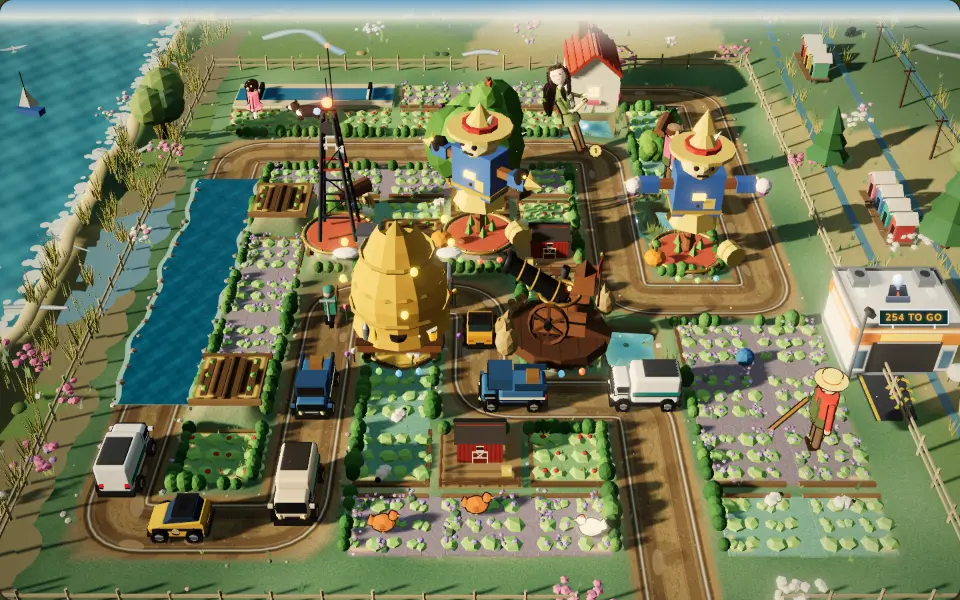
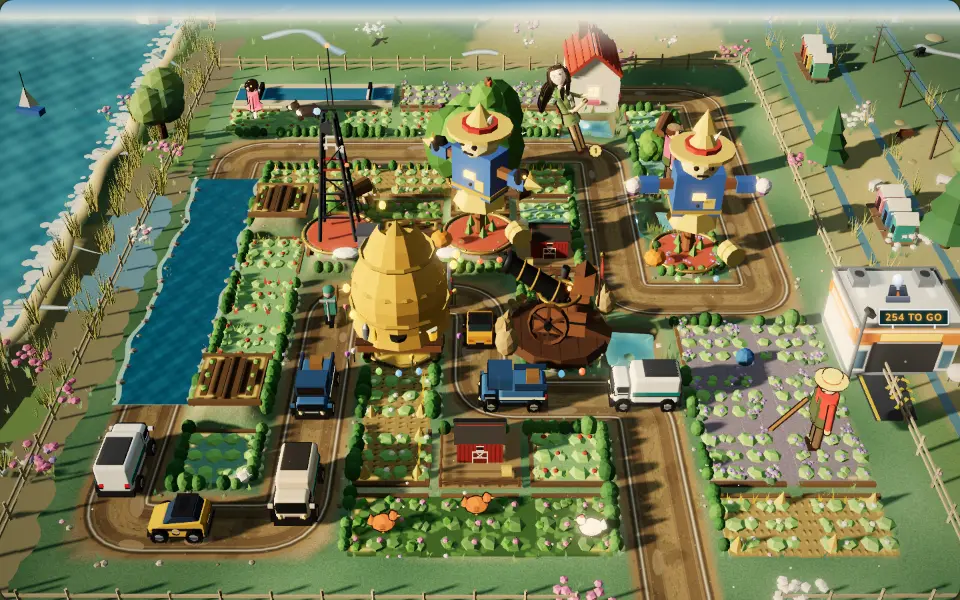
Hedgerow 2D (plan item 621 slice 1): every level's farm sows five crops or more, the act's own three beds plus two margin beds borrowed from a neighbouring country
Claude-Session: https://claude.ai/code/session_01SimvMRr3pxyZPGsavn32QT

diff --git a/games/hedgerow/src/fieldkit.ts b/games/hedgerow/src/fieldkit.ts
@@ -58,6 +58,11 @@ export interface FieldKit {
   name: string;
   /** The three looks the fields take turns with (plotlook.ts keeps neighbours apart). */
   beds: readonly [BedLook, BedLook, BedLook];
+  /**
+   * Plan item 621: two margin beds borrowed from a neighbouring country's kit, so a level's farm reads as 5+ crops,
+   * not three repeating ones. They are sown after the act's own three (plotlook.ts), so the act's beds still lead.
+   */
+  margins: readonly [BedLook, BedLook];
   /** The look that sometimes holds a puddle (none: no puddles). */
   puddle?: BedLook;
   barn: BarnLook;
@@ -68,19 +73,19 @@ export interface FieldKit {
   house: "farm" | "fisher" | "thatch" | "longhouse" | "lodge" | "flint" | "bungalow" | "rectory" | "showhome" | "townhouse";
 }
 
-export const BRINDLE_KIT: FieldKit = { name: "farm", beds: ["earth", "stubble", "clover"], puddle: "earth", barn: "barn", water: "pond", house: "farm", knoll: { top: "rgb(150,176,92)", foot: "rgb(92,120,56)", contour: "rgba(60,80,30,0.45)" } };
+export const BRINDLE_KIT: FieldKit = { name: "farm", beds: ["earth", "stubble", "clover"], margins: ["oats", "turnips"], puddle: "earth", barn: "barn", water: "pond", house: "farm", knoll: { top: "rgb(150,176,92)", foot: "rgb(92,120,56)", contour: "rgba(60,80,30,0.45)" } };
 
 /** Acts by index (0 Brindle .. 9 Kingsmarket) with a kit of their own; the rest keep the farm's. */
 export const FIELD_KITS: Partial<Record<number, FieldKit>> = {
-  1: { name: "hill farm", beds: ["oats", "turnips", "inbye"], barn: "fold", water: "peatpool", house: "longhouse", knoll: { top: "rgb(160,150,120)", foot: "rgb(110,100,84)", contour: "rgba(70,60,46,0.45)", dress: "rocks" } },
-  2: { name: "saltmarsh", beds: ["samphire", "lavender", "saltgrass"], barn: "netshed", water: "saltpan", house: "fisher", knoll: { top: "rgb(222,212,160)", foot: "rgb(132,156,100)", contour: "rgba(110,120,70,0.45)", dress: "marram" } },
-  3: { name: "water meadow", beds: ["meadow", "swathe", "cress"], barn: "millhouse", water: "willowpond", house: "thatch", knoll: { top: "rgb(140,186,96)", foot: "rgb(90,140,64)", contour: "rgba(50,90,40,0.45)", dress: "willow" } },
-  4: { name: "woodland holding", beds: ["garlic", "litter", "bluebell"], barn: "timberbarn", water: "lilypool", house: "lodge", knoll: { top: "rgb(120,150,74)", foot: "rgb(74,100,48)", contour: "rgba(50,70,30,0.45)", dress: "bracken" } },
-  5: { name: "shingle croft", beds: ["seakale", "lazybed", "thrift"], barn: "boathut", water: "rockpool", house: "flint", knoll: { top: "rgb(190,186,174)", foot: "rgb(146,142,132)", contour: "rgba(96,92,84,0.45)", dress: "pebbles" } },
-  6: { name: "agribusiness", beds: ["rape", "beet", "fallow"], barn: "dutchbarn", water: "gravelpit", house: "bungalow", knoll: { top: "rgb(140,124,100)", foot: "rgb(100,88,72)", contour: "rgba(60,50,40,0.45)", dress: "spoil" } },
-  7: { name: "allotments", beds: ["allotment", "sweetpea", "marrow"], barn: "marquee", water: "duckpond", house: "rectory", knoll: { top: "rgb(156,190,100)", foot: "rgb(104,140,64)", contour: "rgba(60,90,36,0.45)", dress: "daisies" } },
-  8: { name: "agri-tech", beds: ["polytunnel", "lettuce", "turf"], barn: "warehouse", water: "lagoon", house: "showhome", knoll: { top: "rgb(120,186,96)", foot: "rgb(84,150,70)", contour: "rgba(40,90,40,0.45)", dress: "sprinkler" } },
-  9: { name: "market garden", beds: ["salad", "rhubarb", "strawberry"], barn: "granary", water: "basin", house: "townhouse", knoll: { top: "rgb(160,170,96)", foot: "rgb(112,124,64)", contour: "rgba(70,80,36,0.45)", dress: "path" } },
+  1: { name: "hill farm", beds: ["oats", "turnips", "inbye"], margins: ["stubble", "meadow"], barn: "fold", water: "peatpool", house: "longhouse", knoll: { top: "rgb(160,150,120)", foot: "rgb(110,100,84)", contour: "rgba(70,60,46,0.45)", dress: "rocks" } },
+  2: { name: "saltmarsh", beds: ["samphire", "lavender", "saltgrass"], margins: ["thrift", "seakale"], barn: "netshed", water: "saltpan", house: "fisher", knoll: { top: "rgb(222,212,160)", foot: "rgb(132,156,100)", contour: "rgba(110,120,70,0.45)", dress: "marram" } },
+  3: { name: "water meadow", beds: ["meadow", "swathe", "cress"], margins: ["clover", "garlic"], barn: "millhouse", water: "willowpond", house: "thatch", knoll: { top: "rgb(140,186,96)", foot: "rgb(90,140,64)", contour: "rgba(50,90,40,0.45)", dress: "willow" } },
+  4: { name: "woodland holding", beds: ["garlic", "litter", "bluebell"], margins: ["inbye", "swathe"], barn: "timberbarn", water: "lilypool", house: "lodge", knoll: { top: "rgb(120,150,74)", foot: "rgb(74,100,48)", contour: "rgba(50,70,30,0.45)", dress: "bracken" } },
+  5: { name: "shingle croft", beds: ["seakale", "lazybed", "thrift"], margins: ["saltgrass", "samphire"], barn: "boathut", water: "rockpool", house: "flint", knoll: { top: "rgb(190,186,174)", foot: "rgb(146,142,132)", contour: "rgba(96,92,84,0.45)", dress: "pebbles" } },
+  6: { name: "agribusiness", beds: ["rape", "beet", "fallow"], margins: ["stubble", "lettuce"], barn: "dutchbarn", water: "gravelpit", house: "bungalow", knoll: { top: "rgb(140,124,100)", foot: "rgb(100,88,72)", contour: "rgba(60,50,40,0.45)", dress: "spoil" } },
+  7: { name: "allotments", beds: ["allotment", "sweetpea", "marrow"], margins: ["salad", "strawberry"], barn: "marquee", water: "duckpond", house: "rectory", knoll: { top: "rgb(156,190,100)", foot: "rgb(104,140,64)", contour: "rgba(60,90,36,0.45)", dress: "daisies" } },
+  8: { name: "agri-tech", beds: ["polytunnel", "lettuce", "turf"], margins: ["beet", "rape"], barn: "warehouse", water: "lagoon", house: "showhome", knoll: { top: "rgb(120,186,96)", foot: "rgb(84,150,70)", contour: "rgba(40,90,40,0.45)", dress: "sprinkler" } },
+  9: { name: "market garden", beds: ["salad", "rhubarb", "strawberry"], margins: ["allotment", "sweetpea"], barn: "granary", water: "basin", house: "townhouse", knoll: { top: "rgb(160,170,96)", foot: "rgb(112,124,64)", contour: "rgba(70,80,36,0.45)", dress: "path" } },
 };
 
 export function actIndex(level: Pick<Level, "id">): number {

diff --git a/tests/hedgerow-fieldkit.test.ts b/tests/hedgerow-fieldkit.test.ts
@@ -2,7 +2,7 @@
 import { describe, expect, it } from "vitest";
 import { LEVELS } from "../games/hedgerow/src/levels";
 import { BRINDLE_KIT, FIELD_KITS, bedBase, kitFor } from "../games/hedgerow/src/fieldkit";
-import { plotLooks } from "../games/hedgerow/src/plotlook";
+import { fieldAt, plotLooks } from "../games/hedgerow/src/plotlook";
 
 const kits = [BRINDLE_KIT, ...Object.values(FIELD_KITS).map((k) => k!)];
 
@@ -36,12 +36,22 @@ describe("field kits", () => {
 
   it("sow every plot of a level from its act's kit", () => {
     for (const level of LEVELS) {
-      const beds = new Set<string>([...kitFor(level).beds, "puddle"]);
+      const beds = new Set<string>([...kitFor(level).beds, ...kitFor(level).margins, "puddle"]);
       for (const look of plotLooks(level).values()) expect(beds.has(look), `level ${level.id} ${look}`).toBe(true);
     }
   });
 
   it("keep three different beds in the 3D view for each kit (neighbours still differ there)", () => {
     for (const kit of kits) expect(new Set(kit.beds.map(bedBase)).size, kit.name).toBe(3);
+  });
+
+  // Plan item 621: a level's farm reads as five crops or more, the act's own three plus two borrowed margins.
+  it("sow 5+ different beds on every level with five fields or more", () => {
+    for (const kit of kits) for (const m of kit.margins) expect(kit.beds, kit.name).not.toContain(m);
+    for (const level of LEVELS) {
+      const looks = plotLooks(level);
+      const fields = new Set([...looks.keys()].map((k) => { const [c, r] = k.split(",").map(Number) as [number, number]; return fieldAt(level, c, r)?.id; }));
+      if (fields.size >= 5) expect(new Set(looks.values()).size, `level ${level.id}`).toBeGreaterThanOrEqual(5);
+    }
   });
 });

diff --git a/games/hedgerow/src/plotlook.ts b/games/hedgerow/src/plotlook.ts
@@ -41,7 +41,9 @@ function build(level: Level): { looks: Map<string, PlotLook>; field: Map<string,
   const scenery = sceneryCells(level);
   const r01 = rng(level.id * 7919 + 52);
   const kit = kitFor(level);
-  const BASE: readonly PlotLook[] = kit.beds;
+  const BASE: readonly PlotLook[] = [...kit.beds, ...kit.margins];
+  // Plan item 621: at equal use an act's own bed is sown before a borrowed margin bed.
+  const weight = (l: PlotLook) => (used.get(l) ?? 0) + (kit.beds.includes(l as never) ? 0 : 0.5);
   const out = new Map<string, PlotLook>();
   const base = new Map<string, PlotLook>();
   const field = new Map<string, Field>();
@@ -73,9 +75,9 @@ function build(level: Level): { looks: Map<string, PlotLook>; field: Map<string,
         const roll = r01();
         const free = BASE.filter((l) => !above.has(l) && l !== prev);
         // Of the looks free here, the ones the level has used least, so a farm of few big fields still grows all three.
-        const least = Math.min(...free.map((l) => used.get(l) ?? 0));
+        const least = Math.min(...free.map(weight));
         const pool = free.length
-          ? free.filter((l) => (used.get(l) ?? 0) === least)
+          ? free.filter((l) => weight(l) === least)
           : [...BASE].sort((a, b) => (above.get(a) ?? 0) - (above.get(b) ?? 0)).slice(0, 1);
         look = pool[Math.floor(roll * pool.length)]!;
         used.set(look, (used.get(look) ?? 0) + 1);

diff --git a/tests/hedgerow-plotlook.test.ts b/tests/hedgerow-plotlook.test.ts
@@ -43,7 +43,7 @@ describe("plot looks", () => {
       }
     }
     // Plan item 399: every act's kit, and the farm's puddle.
-    const kits = [BRINDLE_KIT, ...Object.values(FIELD_KITS)].flatMap((k) => [...k!.beds]);
+    const kits = [BRINDLE_KIT, ...Object.values(FIELD_KITS)].flatMap((k) => [...k!.beds, ...k!.margins]);
     expect([...all].sort()).toEqual([...new Set([...kits, "puddle"])].sort());
   });
 
